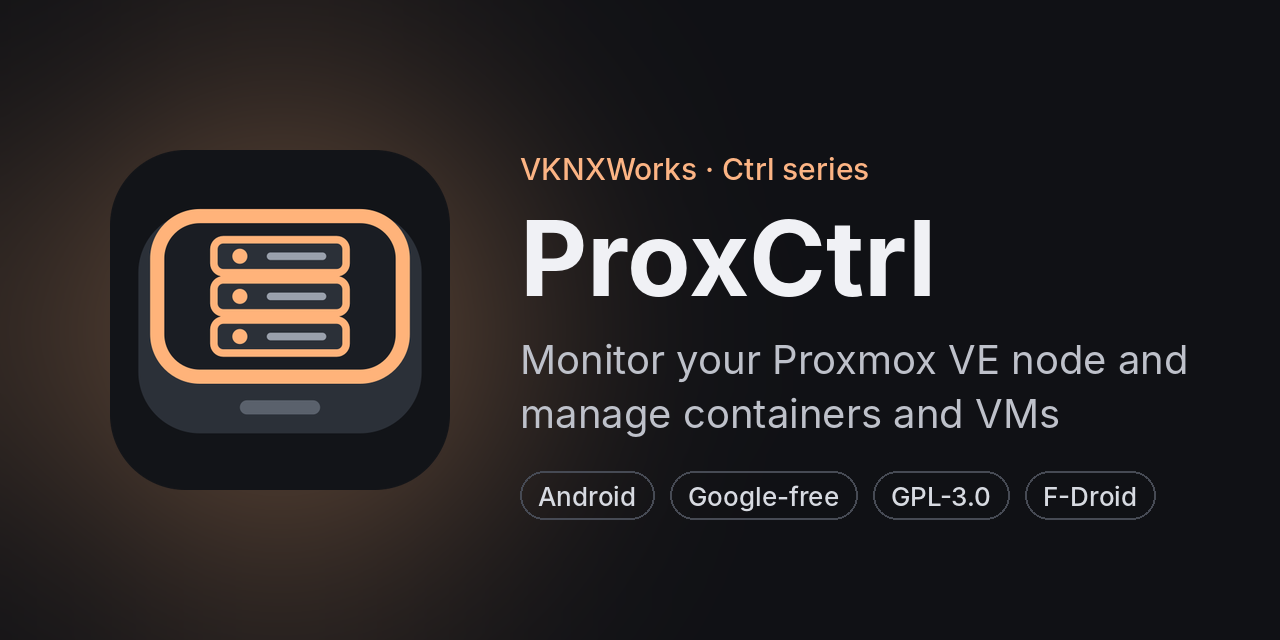
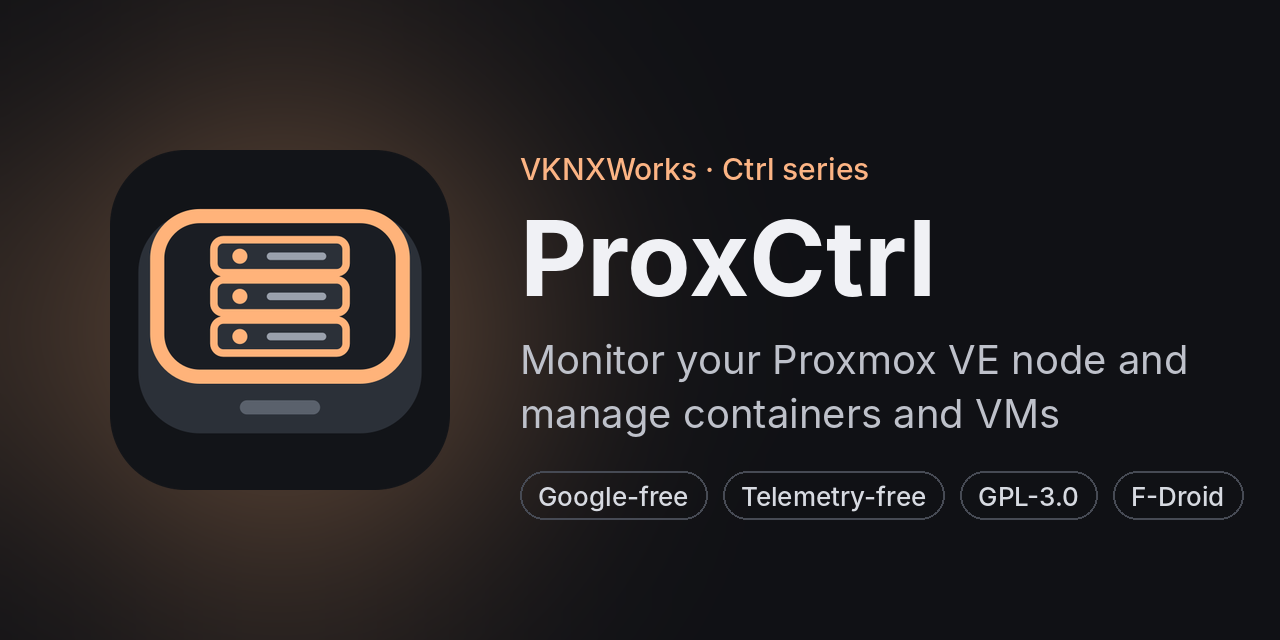
ProxCtrl 1.0.2: telemetry-free
Remove the opt-in Aptabase usage stats completely: Telemetry.kt, the
one-time UsageStatsPrompt, the Usage stats setting and its strings, all
tracking calls (screens, power actions, consoles), the
APTABASE_KEY/APTABASE_HOST build config and the CI key check. The stored
stats choice is deleted from the phone at start-up.
README: Telemetry-free badge and a Privacy section; new link preview image.

Claude-Session: https://claude.ai/code/session_01EwhEpZ1DKRJef9Cqeiv5g2

Changed region(s): [[0.4062, 0.7188, 0.9688, 0.8125]]

diff --git a/app/src/main/java/com/vknxworks/proxctrl/data/settings/AppSettings.kt b/app/src/main/java/com/vknxworks/proxctrl/data/settings/AppSettings.kt
@@ -16,6 +16,7 @@ import kotlinx.coroutines.flow.SharingStarted
 import kotlinx.coroutines.flow.StateFlow
 import kotlinx.coroutines.flow.map
 import kotlinx.coroutines.flow.stateIn
+import kotlinx.coroutines.launch
 
 /** App-wide preferences (not per server). Server settings and secrets live elsewhere, encrypted. */
 val Context.appDataStore: DataStore<Preferences> by preferencesDataStore(name = "proxctrl")
@@ -49,10 +50,6 @@ data class AppSettings(
     val memWarnPercent: Int = 85,
     /** A guest's newest backup older than this many days is flagged. */
     val backupMaxAgeDays: Int = 7,
-    /** Opt-in anonymous usage stats (off until the user says yes). */
-    val usageStats: Boolean = false,
-    /** Whether the one-time usage stats question has been answered. */
-    val usageStatsAsked: Boolean = false,
     /** FLAG_SECURE on the whole app: blank screenshots, screen recordings and Recents card. On by default. */
     val hideContent: Boolean = true,
     /** App lock: ask for the fingerprint or screen lock when opening the app. */
@@ -71,8 +68,6 @@ class SettingsRepository(private val context: Context, scope: CoroutineScope) {
         val diskWarn = intPreferencesKey("disk_warn_percent")
         val memWarn = intPreferencesKey("mem_warn_percent")
         val backupAge = intPreferencesKey("backup_max_age_days")
-        val usageStats = booleanPreferencesKey("usage_stats")
-        val usageStatsAsked = booleanPreferencesKey("usage_stats_asked")
         val hideContent = booleanPreferencesKey("hide_content")
         val lockOnOpen = booleanPreferencesKey("lock_on_open")
         val lockChanges = booleanPreferencesKey("lock_changes")
@@ -85,6 +80,18 @@ class SettingsRepository(private val context: Context, scope: CoroutineScope) {
     /** The stored settings as they're read and changed, without [settings]' placeholder defaults at start-up. */
     val stored: Flow<AppSettings> = context.appDataStore.data.map { it.toSettings() }
 
+    init {
+        // Versions before 1.0.2 stored the choice for the old opt-in stats under keys starting with
+        // "usage_". Nothing uses them any more, so they're deleted from the phone.
+        scope.launch {
+            runCatching {
+                context.appDataStore.edit { p ->
+                    p.asMap().keys.filter { it.name.startsWith("usage_") }.forEach { p.remove(it) }
+                }
+            }
+        }
+    }
+
     private fun Preferences.toSettings() = AppSettings(
         theme = enumOr(this[K.theme], ThemeChoice.SYSTEM),
         dynamicColor = this[K.dynamic] ?: false,
@@ -94,8 +101,6 @@ class SettingsRepository(private val context: Context, scope: CoroutineScope) {
         diskWarnPercent = (this[K.diskWarn] ?: 80).coerceIn(50, 99),
         memWarnPercent = (this[K.memWarn] ?: 85).coerceIn(50, 99),
         backupMaxAgeDays = (this[K.backupAge] ?: 7).coerceIn(1, 90),
-        usageStats = this[K.usageStats] ?: false,
-        usageStatsAsked = this[K.usageStatsAsked] ?: false,
         hideContent = this[K.hideContent] ?: true,
         lockOnOpen = this[K.lockOnOpen] ?: false,
         lockChanges = this[K.lockChanges] ?: false,
@@ -112,8 +117,6 @@ class SettingsRepository(private val context: Context, scope: CoroutineScope) {
             p[K.diskWarn] = s.diskWarnPercent
             p[K.memWarn] = s.memWarnPercent
             p[K.backupAge] = s.backupMaxAgeDays
-            p[K.usageStats] = s.usageStats
-            p[K.usageStatsAsked] = s.usageStatsAsked
             p[K.hideContent] = s.hideContent
             p[K.lockOnOpen] = s.lockOnOpen
             p[K.lockChanges] = s.lockChanges

diff --git a/app/src/main/java/com/vknxworks/proxctrl/ui/guests/GuestBulk.kt b/app/src/main/java/com/vknxworks/proxctrl/ui/guests/GuestBulk.kt
@@ -38,9 +38,6 @@ import com.vknxworks.proxctrl.data.api.PveClient
 import com.vknxworks.proxctrl.data.guests.Guest
 import com.vknxworks.proxctrl.data.guests.PowerAction
 import com.vknxworks.proxctrl.data.guests.power
-import com.vknxworks.proxctrl.data.guests.GuestType
-import com.vknxworks.proxctrl.data.telemetry.Telemetry
-import com.vknxworks.proxctrl.container
 import com.vknxworks.proxctrl.ui.theme.Gutter
 
 fun PowerAction.icon(): ImageVector = when (this) {
@@ -154,8 +151,6 @@ fun BulkPowerDialog(
 /** Runs [action] on each guest in turn and returns a one-line summary for the snackbar. */
 suspend fun runBulk(context: Context, client: PveClient, action: PowerAction, targets: List<Guest>): String {
     val results = targets.map { client.power(it, action) }
-    // One event per guest type in the batch, never which guests or how many of each.
-    targets.map { it.type }.distinct().forEach { trackPower(context.container.telemetry, action, it) }
     val ok = results.count { it.error == null }
     val label = context.getString(action.label())
     val failed = results.filter { it.error != null }
@@ -164,15 +159,4 @@ suspend fun runBulk(context: Context, client: PveClient, action: PowerAction, ta
     } else {
         context.getString(R.string.bulk_failed, label, failed.joinToString(", ") { "${it.guest.vmid} ${it.guest.name}" })
     }
-}
-
-/**
- * Usage stats: which power action on which kind of guest, never the guest itself. Exactly what the
- * README and the in-app description promise, nothing more.
- */
-fun trackPower(telemetry: Telemetry, action: PowerAction, type: GuestType) {
-    telemetry.track(
-        "guest_power_action",
-        mapOf("action" to action.name.lowercase(), "guest_type" to type.api),
-    )
 }

diff --git a/app/src/main/java/com/vknxworks/proxctrl/ui/settings/SettingsScreen.kt b/app/src/main/java/com/vknxworks/proxctrl/ui/settings/SettingsScreen.kt
@@ -12,7 +12,6 @@ import androidx.compose.material.icons.filled.DarkMode
 import androidx.compose.material.icons.filled.Fingerprint
 import androidx.compose.material.icons.filled.Lock
 import androidx.compose.material.icons.filled.Widgets
-import androidx.compose.material.icons.filled.Insights
 import androidx.compose.material.icons.filled.Memory
 import androidx.compose.material.icons.filled.Notifications
 import androidx.compose.material.icons.filled.Palette
@@ -40,7 +39,7 @@ import com.vknxworks.proxctrl.ui.components.GroupSwitch
 import com.vknxworks.proxctrl.ui.components.ScreenTopBar
 import kotlinx.coroutines.launch
 
-/** App settings: notifications, appearance, warning thresholds, privacy, app lock, widgets and usage stats. */
+/** App settings: notifications, appearance, warning thresholds, privacy, app lock and widgets. */
 @Composable
 fun SettingsScreen() {
     val context = LocalContext.current
@@ -124,16 +123,6 @@ fun SettingsScreen() {
                     stringResource(R.string.widget_settings_subtitle),
                     icon = Icons.Filled.Widgets,
                 )
-            }
-            if (c.telemetry.available) {
-                Group(stringResource(R.string.group_usage_stats), footer = stringResource(R.string.usage_stats_description)) {
-                    GroupSwitch(
-                        stringResource(R.string.usage_stats_switch),
-                        stringResource(R.string.usage_stats_switch_subtitle),
-                        checked = settings.usageStats,
-                        icon = Icons.Filled.Insights,
-                    ) { on -> c.appScope.launch { c.settings.update { it.copy(usageStats = on, usageStatsAsked = true) } } }
-                }
             }
         }
     }

diff --git a/app/src/main/java/com/vknxworks/proxctrl/ui/nav/AppRoot.kt b/app/src/main/java/com/vknxworks/proxctrl/ui/nav/AppRoot.kt
@@ -83,7 +83,6 @@ import com.vknxworks.proxctrl.ui.guests.GuestsScreen
 import com.vknxworks.proxctrl.ui.node.NodeScreen
 import com.vknxworks.proxctrl.ui.overview.OverviewScreen
 import com.vknxworks.proxctrl.ui.settings.SettingsScreen
-import com.vknxworks.proxctrl.ui.settings.UsageStatsPrompt
 import com.vknxworks.proxctrl.ui.settings.YouScreen
 import com.vknxworks.proxctrl.ui.storage.StorageScreen
 import com.vknxworks.proxctrl.ui.tasks.TasksScreen
@@ -145,13 +144,6 @@ private fun MainScaffold() {
     // proxctrl://guest/<vmid>: open that guest's page, or the Guests tab when it isn't on this server.
     val c = LocalContext.current.container
 
-    // Usage stats (only if the user opted in): the kind of screen, never its arguments (node, guest ID, title).
-    val entryId = backStack?.id
-    val screen = dest?.route?.let(::screenName)
-    LaunchedEffect(entryId) {
-        if (screen != null) c.telemetry.track("screen_viewed", mapOf("screen" to screen))
-    }
-    UsageStatsPrompt()
     val pendingGuest by DeepLinks.pendingGuest.collectAsStateWithLifecycle()
     LaunchedEffect(pendingGuest) {
         val vmid = pendingGuest ?: return@LaunchedEffect
@@ -207,13 +199,6 @@ private fun MainScaffold() {
         }
     }
 }
-
-/**
- * "com.vknxworks.proxctrl.ui.nav.GuestRoute/{node}/{type}/{vmid}" -> "Guest". Only the route's class name:
- * arguments (node names, guest IDs, console titles) are dropped.
- */
-private fun screenName(route: String): String =
-    route.substringBefore('/').substringBefore('?').substringAfterLast('.').removeSuffix("Route")
 
 /**
  * Phones: content runs edge to edge and scrolls under a floating glass island.

diff --git a/app/src/main/java/com/vknxworks/proxctrl/ui/guests/GuestScreen.kt b/app/src/main/java/com/vknxworks/proxctrl/ui/guests/GuestScreen.kt
@@ -272,12 +272,6 @@ fun GuestScreen(node: String, type: String, vmid: Int) {
                     if (status?.status == "running" && c.sessions.canWrite(ref.aclPath, "VM.Console")) {
                         FilledTonalButton(
                             onClick = {
-                                val consoleKind = when {
-                                    ref.type == GuestType.LXC -> "lxc_terminal"
-                                    config?.serialConsole != null -> "vm_serial"
-                                    else -> "vm_screen"
-                                }
-                                c.telemetry.track("console_opened", mapOf("kind" to consoleKind))
                                 nav.navigate(
                                     ConsoleRoute(
                                         kind = ref.type.api,
@@ -364,7 +358,6 @@ fun GuestScreen(node: String, type: String, vmid: Int) {
                 val cl = client ?: return@PowerConfirmDialog
                 scope.launch {
                     val result = cl.power(g, action)
-                    trackPower(c.telemetry, action, g.type)
                     val label = context.getString(action.label())
                     val e = result.error
                     snackbar.showSnackbar(

diff --git a/app/src/main/java/com/vknxworks/proxctrl/AppContainer.kt b/app/src/main/java/com/vknxworks/proxctrl/AppContainer.kt
@@ -7,7 +7,6 @@ import com.vknxworks.proxctrl.data.overview.OverviewRepository
 import com.vknxworks.proxctrl.data.server.ServerStore
 import com.vknxworks.proxctrl.data.server.Sessions
 import com.vknxworks.proxctrl.data.settings.SettingsRepository
-import com.vknxworks.proxctrl.data.telemetry.Telemetry
 import kotlinx.coroutines.CoroutineScope
 import kotlinx.coroutines.Dispatchers
 import kotlinx.coroutines.SupervisorJob
@@ -19,9 +18,6 @@ class AppContainer(val context: Context) {
     val appScope = CoroutineScope(SupervisorJob() + Dispatchers.Default)
 
     val settings = SettingsRepository(context, appScope)
-
-    /** Opt-in usage stats, with its own HTTP client (never [http] or a server's pinned copy of it). */
-    val telemetry = Telemetry(context, settings, appScope)
 
     /**
      * Shared HTTP client. Each server gets a copy with its own certificate pin (see httpFor), so a

diff --git a/app/src/main/java/com/vknxworks/proxctrl/ui/overview/OverviewScreen.kt b/app/src/main/java/com/vknxworks/proxctrl/ui/overview/OverviewScreen.kt
@@ -142,7 +142,6 @@ fun OverviewScreen() {
                         onClick = { nav.tab(NodeRoute) },
                         onShell = if (node.isOnline && c.sessions.canWrite("/nodes/${node.node}", "Sys.Console")) {
                             {
-                                c.telemetry.track("console_opened", mapOf("kind" to "node_shell"))
                                 nav.navigate(ConsoleRoute(kind = "node", node = node.node, title = shellTitle.replace("%s", node.node)))
                             }
                         } else {

diff --git a/app/src/main/java/com/vknxworks/proxctrl/MainActivity.kt b/app/src/main/java/com/vknxworks/proxctrl/MainActivity.kt
@@ -51,7 +51,6 @@ class MainActivity : FragmentActivity() {
             WidgetRefresher.schedule(applicationContext)
             if (WidgetRefresher.anyWidgets(applicationContext)) WidgetRefresher.refreshSoon(applicationContext)
         }
-        if (savedInstanceState == null) c.telemetry.appOpened()
         setContent {
             val settings by c.settings.settings.collectAsStateWithLifecycle()
             // FLAG_SECURE follows "Hide content in screenshots & recents" (on by default, and on

diff --git a/README.md b/README.md
@@ -2,7 +2,7 @@
 
 **Manage your Proxmox VE server from your phone.**
 
-[![Latest release](https://img.shields.io/github/v/release/VoidedKN0X/ProxCtrl?label=download)](https://github.com/VoidedKN0X/ProxCtrl/releases/latest) ![Android 13+](https://img.shields.io/badge/Android-13%2B-3DDC84?logo=android&logoColor=white) [![License: GPL-3.0](https://img.shields.io/badge/license-GPL--3.0-blue)](LICENSE) [![Sponsor](https://img.shields.io/badge/sponsor-GitHub-ea4aaa?logo=githubsponsors&logoColor=white)](https://github.com/sponsors/VoidedKN0X)
+[![Latest release](https://img.shields.io/github/v/release/VoidedKN0X/ProxCtrl?label=download)](https://github.com/VoidedKN0X/ProxCtrl/releases/latest) ![Android 13+](https://img.shields.io/badge/Android-13%2B-3DDC84?logo=android&logoColor=white) [![License: GPL-3.0](https://img.shields.io/badge/license-GPL--3.0-blue)](LICENSE) ![Telemetry-free](https://img.shields.io/badge/telemetry-none-brightgreen) [![Sponsor](https://img.shields.io/badge/sponsor-GitHub-ea4aaa?logo=githubsponsors&logoColor=white)](https://github.com/sponsors/VoidedKN0X)
 
 ProxCtrl is an Android app for [Proxmox VE](https://www.proxmox.com/en/proxmox-virtual-environment) 8 and 9: a fast, touch-first alternative to the web UI for monitoring your node and managing your containers and VMs day to day.
 
@@ -254,17 +254,13 @@ Android can delay background checks to save battery, and ColorOS (OPPO, OnePlus,
 - With an API token, the node shell asks for a Linux login, because Proxmox only skips the login for `root@pam`. Sign in with `root@pam` and its password if you want a root shell straight away.
 - If a console doesn't behave, tap the bug icon at the top for a live diagnostics readout (connection, data sent and received, keyboard, page errors) and copy it into an issue. It never includes what you typed.
 
-## Usage stats
+## Privacy
 
-ProxCtrl can share anonymous usage stats, **only if you say yes**. It asks once after you add your first server, and you can change it any time in **Settings > Usage stats**.
+**Telemetry-free.** ProxCtrl has no analytics, crash reporting, usage stats or tracking of any kind. It only talks to the servers you add.
 
-- **Shared:** which screens you open (the kind of screen, never which node or guest), which power actions you use (start, shut down, reboot, stop and so on) and whether on a container or a VM, which kind of console you open (node shell, container terminal, VM screen or serial terminal), the app version, Android version, phone model, language, phone or tablet, your theme and whether you use the compact guest list.
-- **Never shared:** your server address, node names, guest names or IDs, IP addresses, username, tokens or passwords, anything typed in a console, or any ID that stays the same between sessions.
-- **Where:** VKNXWorks' own self-hosted [Aptabase](https://aptabase.com) server. Nothing goes to Google or analytics companies. Like any website, the server sees your IP address; Aptabase uses it only to work out the country and doesn't store it. The stats use their own connection with your phone's normal certificate checks; your Proxmox login and pinned certificate are never used for it.
-
-Builds from source don't include the stats key, so they can't send anything and the setting is hidden. The code is in [`Telemetry.kt`](app/src/main/java/com/vknxworks/proxctrl/data/telemetry/Telemetry.kt).
-
-Apart from these opt-in stats, ProxCtrl only talks to your own Proxmox servers. Push notifications come through your own ntfy server (or another UnifiedPush app). The consoles are bundled in the app and can't load anything from the internet, and links in a guest's notes open in your browser only when you tap them.
+- **Servers:** your own Proxmox servers. Push notifications come through your own ntfy server (or another UnifiedPush app). The consoles are bundled in the app and can't load anything from the internet, and links in a guest's notes open in your browser only when you tap them.
+- **Google-free:** no Google Play services or Google libraries that contact Google. The built-in web view for the consoles has Google Safe Browsing and WebView usage reports turned off.
+- **Links:** the Support, Report a bug, Source code and Licence rows in About open in your browser; the app itself doesn't contact GitHub.
 
 ## Build from source
 

diff --git a/CHANGELOG.md b/CHANGELOG.md
@@ -4,11 +4,15 @@ What changed in each ProxCtrl release. Every release on the [Releases page](http
 
 To publish a new version: bump `versionCode` and `versionName` in `app/build.gradle.kts`, add a section here, and push to `main`. Pushes without a version bump only build; they don't make a release.
 
-## Unreleased
+## v1.0.2 (2026-10-20)
+
+### Privacy
+
+- **No more usage stats: ProxCtrl is now telemetry-free.** The optional anonymous usage stats are gone completely, along with the Usage stats setting in Settings and the one-time question after adding your first server. The app no longer contacts VKNXWorks' stats server at all, and the settings it used are deleted from your phone when you update. ProxCtrl now only talks to your own Proxmox servers (and your ntfy server, if you use push notifications)
 
 ### Changed
 
-- **README**: a Screenshots section (screenshots are coming soon), and a link preview image (`.github/assets/social-preview.png`) with ProxCtrl's icon, name and summary, for when the repo is shared on Reddit, Discord or elsewhere
+- **README**: a Screenshots section (screenshots are coming soon), a new Privacy section and a "Telemetry-free" badge, and a link preview image (`.github/assets/social-preview.png`) with ProxCtrl's icon, name and summary, for when the repo is shared on Reddit, Discord or elsewhere
 
 ## v1.0.1 (2026-10-19)
 
